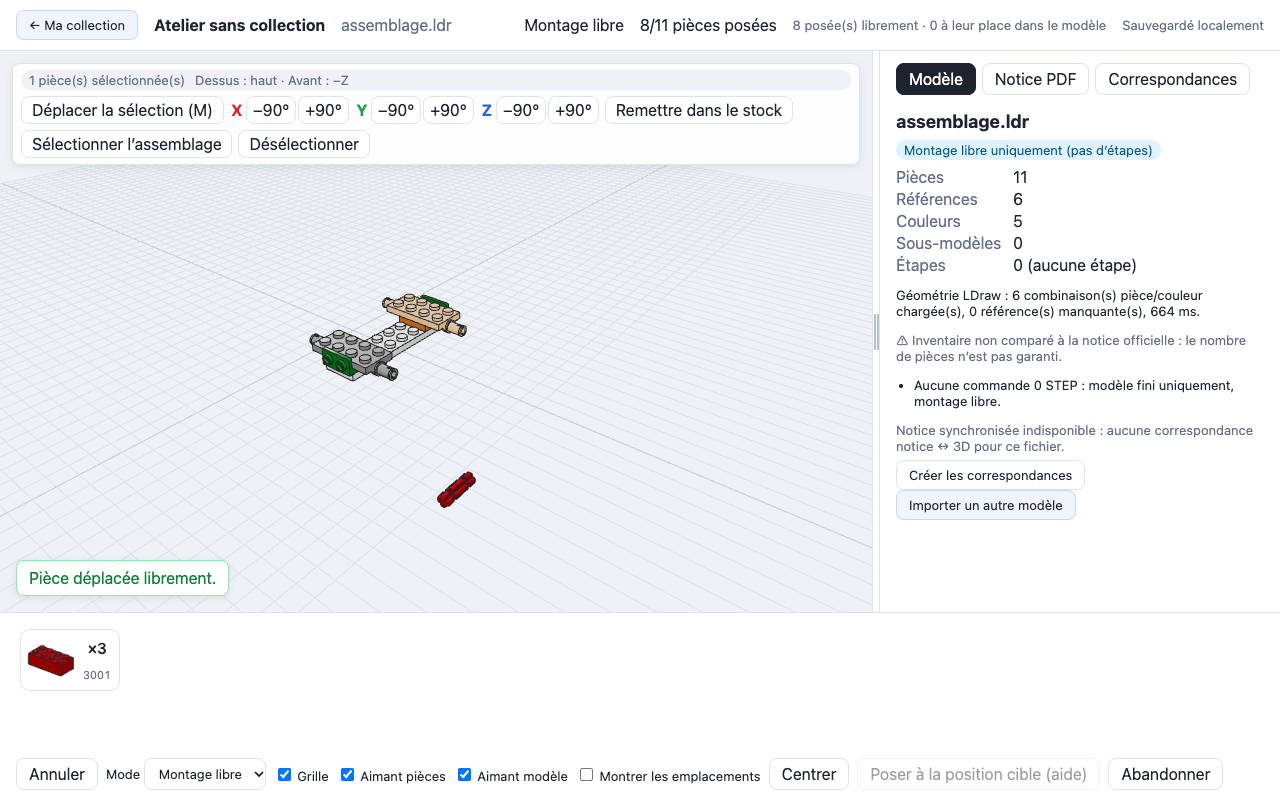
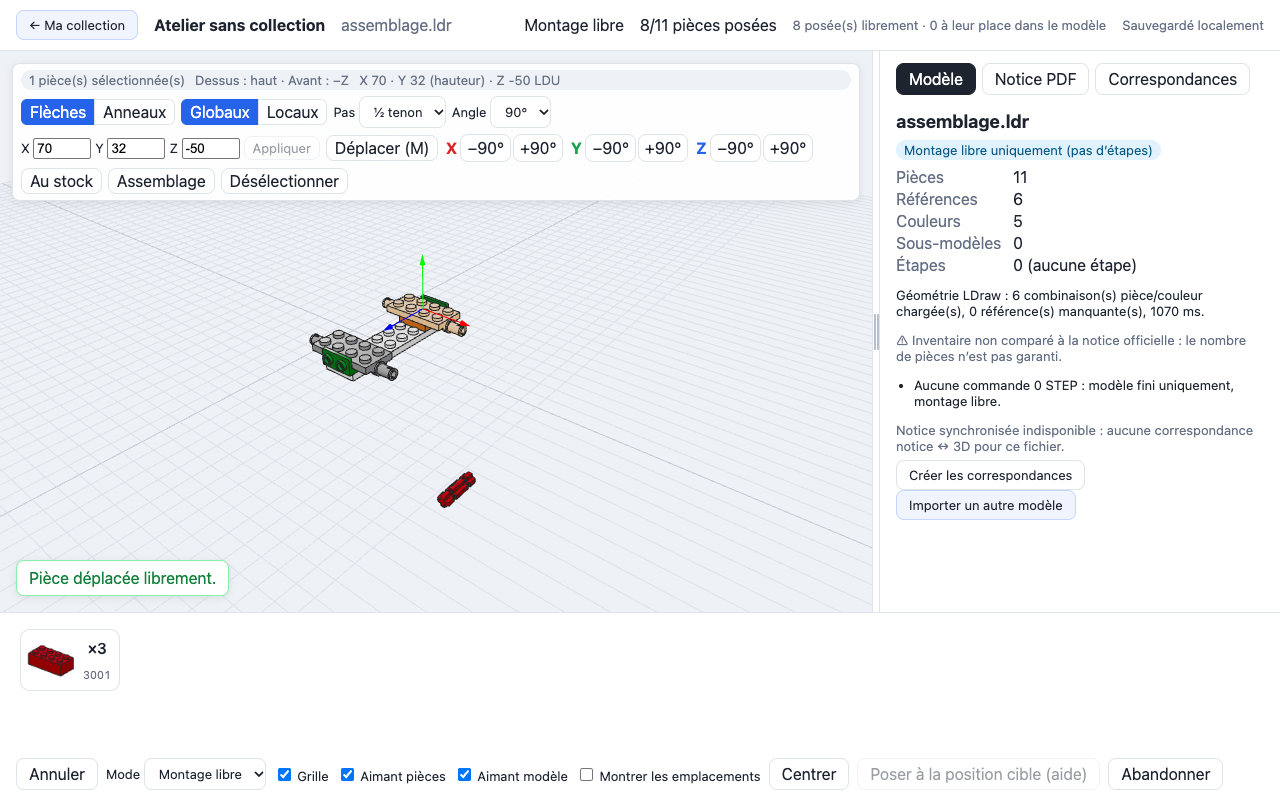
docs(montage-libre): manipulateur 3D — conception, validation, recette humaine

Changed region(s): [[0.0, 0.0938, 0.6562, 0.25], [0.9062, 0.375, 0.9375, 0.4062]]

diff --git a/docs/implementation/MONTAGE_LIBRE_GIZMO.md b/docs/implementation/MONTAGE_LIBRE_GIZMO.md
@@ -1,0 +1,64 @@
+# Montage libre — manipulateur 3D (gizmo) : conception et rapport
+
+**Date :** 07/11/2026. Branche `feat/true-free-building` (PR #7). Demande du propriétaire avant la fusion : un manipulateur 3D sur la pièce sélectionnée, comme dans Blender. Recette : [RECETTE_HUMAINE_MONTAGE_LIBRE_GIZMO.md](RECETTE_HUMAINE_MONTAGE_LIBRE_GIZMO.md). Suite de [MONTAGE_LIBRE_3D_RAPPORT.md](MONTAGE_LIBRE_3D_RAPPORT.md) et [MONTAGE_LIBRE_CONNEXIONS.md](MONTAGE_LIBRE_CONNEXIONS.md).
+
+> Critère : je sélectionne une brique, les trois flèches apparaissent immédiatement, puis je peux la positionner exactement dans l'espace en manipulant les axes directement avec la souris.
+
+## 1. Comportement
+
+| | |
+|---|---|
+| **Apparition** | Clic sur une pièce posée (montage libre) : trois flèches sur la pièce, **X rouge, Y verte (vers le haut), Z bleue** ; aucune touche nécessaire. Sur une sélection multiple ou un assemblage, au pivot du groupe (centre des pièces, point le plus bas). |
+| **Flèches (W)** | Cliquer-glisser une flèche : la pièce (ou le groupe) ne bouge **que** le long de cet axe. |
+| **Anneaux (E)** | Trois anneaux X / Y / Z : cliquer-glisser pour tourner autour de cet axe, par pas de 90° (ou 15°) ; vertical / horizontal à la souris, sans limite aux orientations du modèle. |
+| **Axes globaux / locaux (Q)** | Locaux : les flèches et anneaux suivent la rotation de la pièce (ex. un axe redressé : sa flèche rouge est verticale). |
+| **Pas** | « ½ tenon » (10 LDU à l'horizontale, une plaque de 8 LDU à la verticale), « tenon » (20 / 8), « 1 LDU » ; case « Grille » décochée ou **⌥ maintenu pendant le glisser** : déplacement libre. |
+| **Coordonnées** | En temps réel : **X**, **Y = hauteur au-dessus du sol du modèle**, **Z** (même sens que les flèches) ; saisie numérique + « Appliquer » (ou Entrée). |
+| **Échap** pendant un glisser | Annule ce glisser (retour à la position de départ, sélection gardée). |
+| **Annuler** | Chaque glisser ou chaque saisie = une action, annulée d'un coup (même pour 432 pièces). |
+| **Barre de sélection** | Compacte (libellés courts, raccourcis dans les infobulles) : avec les commandes du manipulateur elle passait à 174 px et couvrait le haut de la vue 3D — un Maj + clic sur une pièce cachée par elle n'arrivait pas à la scène (trouvé par `free-height-group`) ; 138 px à 1280 × 800. |
+| Conservé | Glisser direct de la pièce (avec l'aimant entre pièces), boutons et touches X / Y / Z ±90°, R, M, hauteur, assemblage, Maj + clic. |
+
+## 2. Implémentation (réutilisation de `TransformControls`)
+
+- **`TransformControls`** de three-stdlib, via drei (déjà installé) — pas de manipulateur écrit de zéro. Seuls les **trois flèches** et les **trois anneaux** sont gardés : la poignée centrale, les poignées de plan, l'anneau de vue et la sphère de rotation libre sont retirées (elles couvraient la pièce, dont l'appui est le glisser direct avec l'aimant ; trouvé par les tests B et D).
+- **LDraw ↔ Three.js** : le manipulateur agit sur un **objet relais au pivot placé DANS le groupe LDraw** (retourné de 180° autour de X) : sa matrice locale est en coordonnées LDraw, `TransformControls` gère le parent tourné. Le manipulateur lui-même est rendu **à côté du groupe LDraw, à la racine de la scène**, car il travaille en espace monde (simple élément frère, sans portail R3F). Résultat : flèche verte = −Y LDraw (vers le haut), flèche bleue = −Z LDraw.
+- **Pas relatifs, pas absolus** : l'arrondi intégré de `TransformControls` arrondit la **position absolue** (une pièce à y = 17,41 ou x = 351,92 aurait sauté à une valeur ronde). Il n'est pas utilisé pour la translation : `snapAlong` découpe le **déplacement depuis le début du glisser** en pas entiers, **le long de l'axe tiré seulement** ; les autres coordonnées ne changent pas (aucune modification surprise). La rotation utilise le pas intégré, qui est relatif à l'angle de départ.
+- **Pendant le glisser**, les pièces suivent dans **un seul groupe** dont la matrice = relais actuel × relais au départ⁻¹ (une matrice par image, aucun rendu React par pièce) ; les originales sont masquées.
+- **Au relâchement** : delta → `applyDelta` (rotations nettoyées, coordonnées à 0,01 LDU) → `moveGroup` (tout ou rien) → une action d'annulation.
+- **Caméra** : drei suspend OrbitControls pendant le glisser d'une poignée. Un appui sur une poignée n'est jamais pris pour le glisser direct d'une pièce ; un appui sur une poignée **relâché sans mouvement** reste un clic (Maj + clic sur une pièce sous une flèche).
+- **Clavier pendant un glisser du manipulateur** : Échap l'annule, les autres touches de l'atelier sont ignorées (une sélection ne peut pas disparaître en plein glisser) ; si le manipulateur disparaît quand même, la caméra est réactivée.
+- **Aimant entre pièces** : jamais pendant un glisser contraint (seulement les pas de grille) ; il reste celui du glisser direct.
+- **Sauvegardes** : aucun changement de format (poses rigides v3) ; v1 / v2 / v3 lues comme avant.
+- **Modes guidé et synchronisé** : aucun manipulateur (pas de sélection), inchangés.
+
+## 3. Tests
+
+- **Unitaires** (+3, 289/289) : `snapAlong` (pas depuis le départ, y = 17,41 → 9,41, dérive hors axe ignorée, libre, axe local), `applyDelta` (rotation de groupe exacte autour du pivot), coordonnées affichées ↔ saisies.
+- **E2E** `free-gizmo.spec.ts` (5) : flèches à la sélection (sans M), X +40 / Y une plaque / Z +20 exacts, rien d'autre ne bouge ; 1 LDU ; ⌥ libre ; une annulation par glisser ; anneau X : l'axe rouge redressé à la souris ; axes locaux (sa flèche rouge verticale) ; coordonnées saisies ; positions identiques après rechargement ; assemblage de 7 pièces monté puis tourné sur son pivot, distances exactes, stock inchangé, deux annulations ; Échap annule un glisser ; l'appui sur la pièce reste le glisser direct avec l'aimant (4 tenons) ; **WebKit**. Pointeur envoyé sur les poignées calculées à partir de la géométrie du manipulateur.
+- **Recette réelle** (dossier isolé, fichiers copiés en lecture seule, serveur redémarré) — partie 4 sur **ta construction 31039 actuelle** (21 pièces, copiée) : plaque grise montée d'une plaque exactement, rien d'autre ; ton assemblage (8 pièces avec la brique Technic 32018) déplacé sur X et tourné de 90° sur Y, distances exactes, rétabli par deux annulations ; ta roue placée par saisie (X = 360) ; positions identiques après rechargement. Partie 3 : **assemblage de 432 pièces** déplacé au manipulateur : 57 i/s (pire image 50 ms), chaque pièce exactement −8 en Y, les autres intactes.
+
+## 4. Limites
+
+- Une flèche dessinée par-dessus une pièce voisine prend l'appui (comme dans Blender) : glisser ailleurs sur la pièce voisine, ou Échap pour désélectionner d'abord.
+- Rotations à la souris par pas de 90° ou 15° (⌥ : libre) ; une pièce tournée hors des quarts de tour n'est plus emboîtable par l'aimant (axes non alignés).
+- Le pivot d'un groupe est son centre au ras du point le plus bas ; pas de choix de pivot.
+- La barre de sélection couvre le haut de la vue 3D (≈ 140 px sur un écran de 1280 px de large) : une pièce cachée derrière elle se sélectionne après avoir tourné ou déplacé la caméra.
+- Pas de mise à l'échelle (le manipulateur n'a que déplacement et rotation).
+
+## 5. Validation (07/11/2026, sorties réelles)
+
+```
+check:spec                                  exit 0
+typecheck                                   OK
+vitest                                      15 fichiers, 289/289
+playwright (Chromium + WebKit), passage 1   78 passed (18.3m)
+playwright (Chromium + WebKit), passage 2   78 passed (19.5m)
+next build                                  ✓ Compiled successfully
+recette réelle libre-reel.spec.ts           partie 1 1/1 ; redémarrage du serveur ; parties 2, 3, 4 3/3
+```
+
+- Partie 3 (31039, 596 pièces posées) : ouverture 4,3 s ; graphe 13 ms (531 pièces, 831 liaisons) ; assemblage de 432 pièces en 175 ms ; **glisser du manipulateur sur cet assemblage : 57 i/s, pire image 50 ms**, toutes les autres pièces inchangées ; glisser avec aimant et caméra : 60 i/s.
+- Partie 4 (ta construction 31039 copiée, 21 pièces) : plaque grise montée d'une plaque ; assemblage de 8 pièces (f1, f6–f12) déplacé et tourné ; axe f19 sélectionné (axes locaux) ; roue f20 placée à X = 360 par saisie ; identique après rechargement.
+- Données réelles : empreintes SHA-256 de `library.json` et des `progress.json` identiques avant et après la recette.
+- Un échec trouvé par la suite complète pendant ce lot (Maj + clic refusé dans `free-height-group`) venait de la barre de sélection agrandie qui couvrait la pièce ; corrigé (§ 1, « Barre de sélection »).

diff --git a/docs/implementation/RECETTE_HUMAINE_MONTAGE_LIBRE_GIZMO.md b/docs/implementation/RECETTE_HUMAINE_MONTAGE_LIBRE_GIZMO.md
@@ -1,0 +1,57 @@
+# Recette humaine — manipulateur 3D (Chrome puis Safari)
+
+> Critère : je sélectionne une brique, les trois flèches apparaissent immédiatement, puis je peux la positionner exactement dans l'espace en manipulant les axes directement avec la souris. Détail : [MONTAGE_LIBRE_GIZMO.md](MONTAGE_LIBRE_GIZMO.md).
+
+Durée estimée : 20 min, sur le MacBook (trackpad), puis Safari.
+
+## 0. Avant de commencer (préparé par Claude)
+
+- Serveur de production depuis le worktree `true-free-building` (tête de la PR #7), http://127.0.0.1:3000 (127.0.0.1 seulement).
+- Sauvegarde vérifiée de `library` + `mappings` juste avant ; inventaire SHA-256.
+- Ta construction 31039 (21 pièces) telle que tu l'as laissée ; rien n'est réaligné à l'ouverture. Format des sauvegardes inchangé (v3).
+
+## 1. Les flèches à la sélection
+
+1. 31039 → **Reprendre**. Clic sur une **plaque grise** : trois flèches apparaissent sur elle (X rouge, Y verte vers le haut, Z bleue), sans M. La barre affiche « X … · Y … (hauteur) · Z … ».
+2. Glisse la **flèche verte** vers le haut : la plaque ne monte que verticalement, par plaques (8 LDU) ; relâche. **Annuler** : elle revient.
+3. Flèche **rouge**, puis **bleue** : déplacement sur un seul axe, par demi-tenons ; les coordonnées changent en direct.
+4. **Pas : 1 LDU** : ajustement fin. Maintiens **⌥** pendant un glisser : sans pas du tout.
+5. Pendant un glisser, **Échap** : la pièce revient où elle était.
+
+## 2. Les anneaux
+
+1. **Anneaux** (touche E) : trois anneaux remplacent les flèches.
+2. Clic sur un de tes **axes rouges**, anneau **rouge** (X) ou **bleu** (Z) : glisse le long de l'anneau, l'axe bascule par quarts de tour — vertical, horizontal. Rotation **15°** si tu veux d'autres angles.
+3. **Locaux** (Q) puis **Flèches** (W) : sur un axe redressé, la flèche rouge suit l'axe (verticale) ; **Globaux** : de nouveau les axes de la scène.
+
+## 3. Coordonnées saisies
+
+1. Sélectionne ta **roue** : tape une valeur dans **X** (ou Y, Z), Entrée ou **Appliquer** : elle y est exactement. Annuler : elle revient.
+
+## 4. Assemblage
+
+1. Clic sur une pièce de ton assemblage gris / orange / vert, **« Assemblage »** (ou double-clic) : le manipulateur se place au centre de l'ensemble.
+2. Flèches et anneaux : tout l'assemblage bouge et tourne d'un bloc, sans se déformer ; **une** annulation par geste.
+
+## 5. Ce qui ne change pas
+
+1. Appuyer sur la pièce elle-même (pas sur une flèche) et glisser : le glisser direct, avec l'aimant entre pièces.
+2. Boutons X / Y / Z ±90°, R, Monter / Descendre, M, Maj + clic : comme avant.
+3. 31040 (notice synchronisée) : aucun manipulateur, rien ne change.
+
+## 6. Safari
+
+Dans **Safari** : refais **1.1–1.3, 2.2 et 4.2**.
+
+## 7. Résultats (à remplir par le propriétaire)
+
+| Point | Chrome | Safari | Remarques |
+|---|---|---|---|
+| 1. Flèches à la sélection, un axe à la fois, pas, 1 LDU, ⌥, Échap | | | |
+| 2. Anneaux, vertical / horizontal, axes locaux | | | |
+| 3. Coordonnées en direct et saisies | | — | |
+| 4. Assemblage déplacé et tourné d'un bloc, une annulation | | | |
+| 5. Glisser direct, aimant, boutons, 31040 inchangés | | — | |
+| Critère : sélectionner, voir les flèches, placer exactement à la souris | | | |
+
+Dis-moi ce que tu laisses posé : je comparerai tes données avec l'inventaire d'avant cette recette.

diff --git a/docs/implementation/JOURNAL_DECISIONS.md b/docs/implementation/JOURNAL_DECISIONS.md
@@ -116,3 +116,7 @@ Ce journal **prolonge** `docs/09_DECISIONS_ET_RISQUES.md`, qui reste figé dans 
 | La bibliothèque LDraw décrit les connexions | Non : seulement la géométrie. Connexions **déduites** des primitives standard (tenons, tubes, goupilles, extrémités de trous) ; réceptacles déduits sous les briques/plaques/tuiles ; axes, clips, charnières non reconnus et signalés. Graphe d'assemblage et aimant fondés sur ce sous-ensemble ; rien d'inventé. | `MONTAGE_LIBRE_CONNEXIONS.md` |
 | Une boîte englobante suffit à écarter les emboîtements impossibles | Non : la 30157 (supports de roues) « traversait » la plaque blanche sans la toucher. → Règles sûres sur les connecteurs (tenon déjà pris, deux pièces au même endroit) ; pas de collision approximative. | `MONTAGE_LIBRE_3D_RAPPORT.md` § 5 |
 | Un clic R3F sur un groupe n'appelle son gestionnaire qu'une fois | Non : une fois par objet touché ; et une pièce re-créée n'est « visible » au pointeur qu'au rendu suivant. → Propagation arrêtée, matrices calculées dès l'attachement (évite qu'un double-clic vide la sélection). | E2E `free-3d` C |
+| Écrire un manipulateur 3D | Non : `TransformControls` (three-stdlib via drei) sur un relais au pivot placé dans le groupe LDraw, rendu à la racine de la scène ; seuls flèches et anneaux gardés (les autres poignées couvraient la pièce et empêchaient le glisser direct). | `MONTAGE_LIBRE_GIZMO.md` § 2 |
+| Le pas intégré de `TransformControls` suffit | Non pour la translation : il arrondit la position **absolue** (17,41 → 16). → Pas comptés depuis le début du glisser, le long de l'axe tiré seulement (`snapAlong`) ; rotation : pas intégré (relatif). | unitaires « transform gizmo » |
+| Une flèche ne gêne pas le reste | Si : dessinée sur une pièce voisine elle prend l'appui ; Échap pendant son glisser vidait la sélection en plein geste. → Échap annule le glisser, autres touches ignorées pendant ce temps, appui sans mouvement = clic, taille réduite. | E2E `free-3d` B, `free-gizmo` |
+| Les commandes du manipulateur tiennent dans la barre de sélection existante | Non : la barre passait à 4 rangées (174 px) et couvrait le haut de la vue 3D ; un clic sur une pièce cachée par elle n'arrivait pas à la scène. → Libellés courts, raccourcis en infobulle, champs plus étroits (138 px). | E2E `free-height-group` |

diff --git a/docs/implementation/README.md b/docs/implementation/README.md
@@ -33,7 +33,9 @@ Le dépôt contient deux familles de documents :
 - [Recette humaine ciblée des corrections (faite : NO-GO, quatre problèmes)](RECETTE_HUMAINE_MONTAGE_LIBRE_CORRECTIONS.md)
 - [Connexions, transformations et aimantation : note d'architecture](MONTAGE_LIBRE_CONNEXIONS.md)
 - [Rotations 3 axes, manipulation directe, assemblages, aimant : rapport](MONTAGE_LIBRE_3D_RAPPORT.md)
-- [Recette humaine des quatre problèmes (à faire par le propriétaire)](RECETTE_HUMAINE_MONTAGE_LIBRE_3D.md)
+- [Recette humaine des quatre problèmes (sans résultat transmis ; suite : manipulateur 3D)](RECETTE_HUMAINE_MONTAGE_LIBRE_3D.md)
+- [Manipulateur 3D (gizmo) : conception et rapport](MONTAGE_LIBRE_GIZMO.md)
+- [Recette humaine du manipulateur 3D (à faire par le propriétaire)](RECETTE_HUMAINE_MONTAGE_LIBRE_GIZMO.md)
 
 ## Démarrage développeur
 

diff --git a/docs/implementation/RECETTE_HUMAINE_MONTAGE_LIBRE_3D.md b/docs/implementation/RECETTE_HUMAINE_MONTAGE_LIBRE_3D.md
@@ -61,3 +61,7 @@ Dans **Safari** : refais **1.2, 2.1, 2.3, 3.1 et 4.1–4.2**.
 | Critère : tourner, aimanter, déplacer un assemblage comme un objet | | | |
 
 Dis-moi ce que tu laisses posé : je comparerai tes données avec l'inventaire d'avant cette recette et te dirai exactement ce qui a changé.
+
+## 8. Suite (07/11/2026)
+
+Aucun résultat de cette recette n'a été transmis : le propriétaire a demandé un manipulateur 3D avant la fusion. Données : seule sa construction 31039 a changé (21 pièces, révision 109 : plaques grises calées, axes redressés, roue et pneu posés), 31040 et 31009 inchangés. Suite : [MONTAGE_LIBRE_GIZMO.md](MONTAGE_LIBRE_GIZMO.md), [RECETTE_HUMAINE_MONTAGE_LIBRE_GIZMO.md](RECETTE_HUMAINE_MONTAGE_LIBRE_GIZMO.md).
